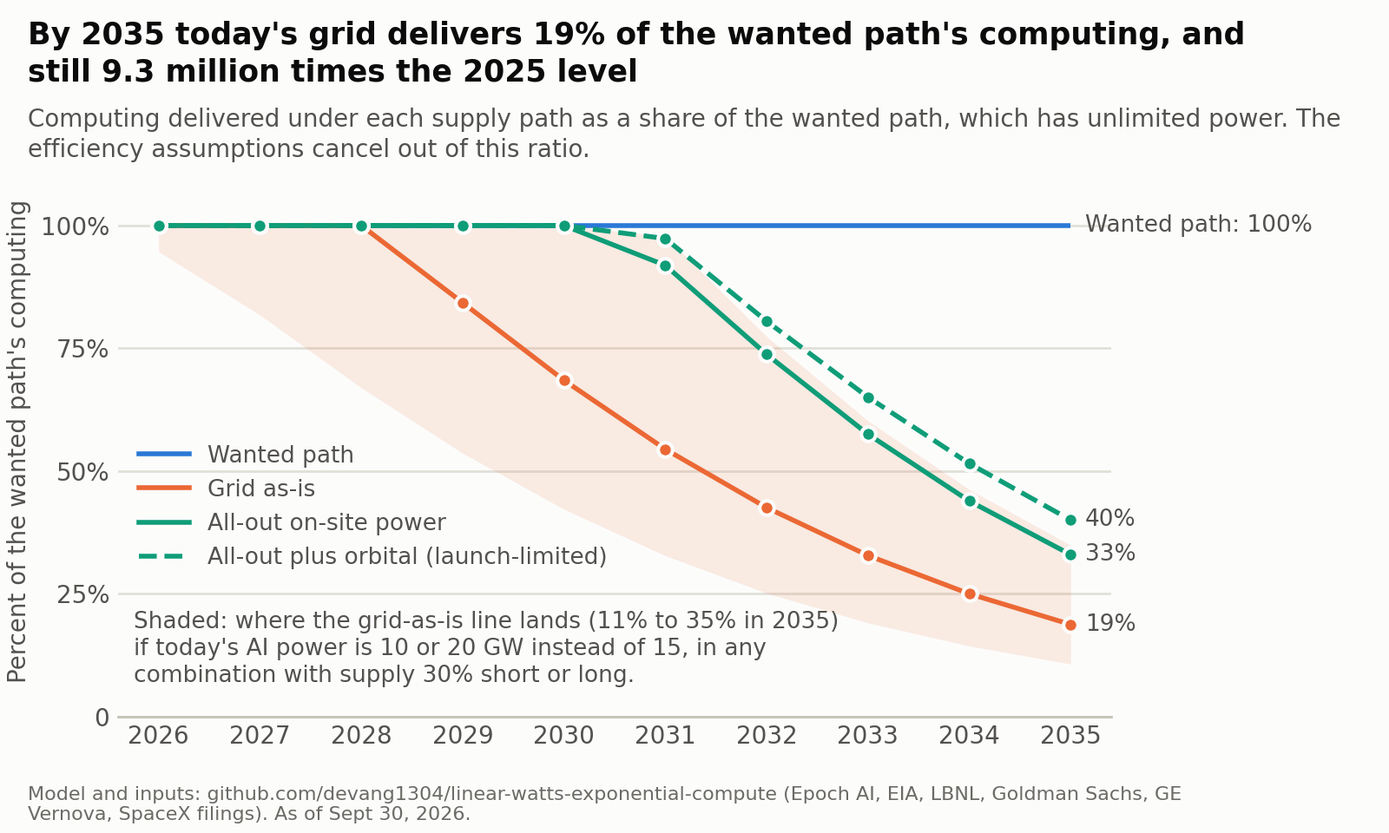
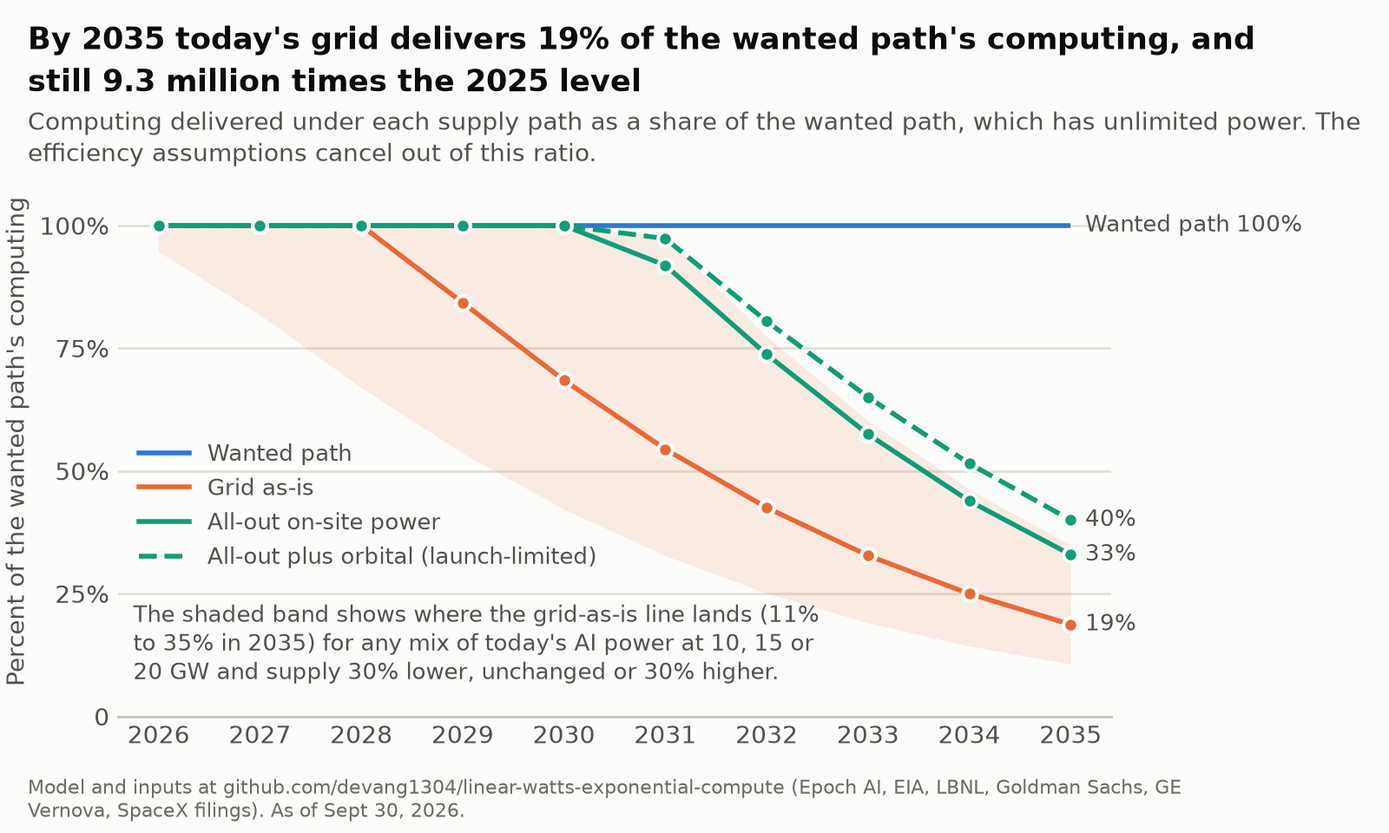
Pre-publication review (v1.1): house-style figures, source corrections, remove post.md

diff --git a/charts.py b/charts.py
@@ -37,7 +37,7 @@ ORANGE = "#eb6834"   # grid as-is
 GREEN = "#0f9d78"    # all-out on-site (solid) and all-out plus orbital (dashed); validated with the dataviz palette script
 FONT = {"family": "DejaVu Sans"}
 FIG_DIR = os.path.join(HERE, "figures")
-SOURCE_LINE = ("Model and inputs: github.com/devang1304/linear-watts-exponential-compute (Epoch AI, EIA, LBNL, Goldman Sachs, "
+SOURCE_LINE = ("Model and inputs at github.com/devang1304/linear-watts-exponential-compute (Epoch AI, EIA, LBNL, Goldman Sachs, "
                "GE Vernova, SpaceX filings). As of Sept 30, 2026.")
 T_TITLE, T_SUB, T_AX, T_NOTE, T_FOOT = 12.5, 10, 10, 9.5, 8
 
@@ -87,16 +87,16 @@ def fig0_identity(inp, supply):
     eff = inp["hw_eff_growth"] * inp["alg_eff_growth"]
     boxes = [
         ("Power connected", "gigawatts connectable to AI sites",
-         f"+{min(adds):.0f}–{max(adds):.0f} GW a year", "linear", BOX, INK),
+         f"+{min(adds):.0f} to {max(adds):.0f} GW", "a year, linear", BOX, INK),
         ("Hardware efficiency", "operations per watt",
-         f"× {inp['hw_eff_growth']:.1f} a year", "compounding", BOX, INK),
+         f"× {inp['hw_eff_growth']:.1f}", "a year, compounding", BOX, INK),
         ("Algorithmic efficiency", "capability per operation",
-         f"× {inp['alg_eff_growth']:.1f} a year", "compounding", BOX, INK),
+         f"× {inp['alg_eff_growth']:.1f}", "a year, compounding", BOX, INK),
         ("Computing delivered", "capability-adjusted",
-         "× 4.5 to 5.9 a year", "exponential", BLUE, "#ffffff"),
+         "× 4.5 to 5.9", "a year, exponential", BLUE, "#ffffff"),
     ]
     xs = [3, 27, 51, 77]
-    w, h, y0 = 21, 42, 22
+    w, h, y0 = 21, 42, 25
     for (head, desc, rate, kind, fill, ink), x in zip(boxes, xs):
         ax.add_patch(FancyBboxPatch((x, y0), w, h, boxstyle="round,pad=0,rounding_size=2.5",
                                     facecolor=fill, edgecolor="none"))
@@ -112,14 +112,14 @@ def fig0_identity(inp, supply):
     ax.plot([27.5, 71.5], [y0 - 4, y0 - 4], color=AXIS, linewidth=1)
     ax.plot([27.5, 27.5], [y0 - 4, y0 - 1.5], color=AXIS, linewidth=1)
     ax.plot([71.5, 71.5], [y0 - 4, y0 - 1.5], color=AXIS, linewidth=1)
-    ax.text(49.5, y0 - 9.5, f"together: × {eff:.1f} more computing per watt every year", ha="center", va="center",
+    ax.text(49.5, y0 - 9.5, f"together they give × {eff:.1f} more computing per watt every year", ha="center", va="center",
             fontsize=9.5, color=INK2)
     fig.text(0.02, 0.955, "Only one of the three terms depends on the grid", fontsize=T_TITLE, color=INK,
              fontweight="semibold", va="top")
-    fig.text(0.02, 0.86, textwrap.fill("Base-case rates, 2025–2035. Power additions are the grid-as-is path; the two "
+    fig.text(0.02, 0.86, textwrap.fill("Base-case rates, 2025 to 2035. Power additions are the grid-as-is path; the two "
              "efficiency terms have compounded for years.", 100), fontsize=T_SUB, color=INK2, va="top", linespacing=1.3)
-    fig.text(0.02, 0.04, "Efficiency rates: Epoch AI (operations per watt doubling every ~2 years; compute for fixed performance "
-             "halving every ~8 months).", fontsize=T_FOOT, color=MUTED, va="bottom")
+    fig.text(0.02, 0.03, textwrap.fill("Efficiency rates from Epoch AI (operations per watt doubling about every 2 years; compute "
+             "for fixed performance halving about every 8 months).", 118), fontsize=T_FOOT, color=MUTED, va="bottom")
     fig.savefig(os.path.join(FIG_DIR, "fig0_identity.png"), facecolor=SURFACE)
     plt.close(fig)
 
@@ -133,19 +133,19 @@ def fig1_power(rows):
     fig.subplots_adjust(left=0.085, right=0.80, top=0.80, bottom=0.14)
     style(ax, "Gigawatts (GW)")
     line(ax, xs, pick("supply_grid_gw"), ORANGE, "Grid as-is")
-    line(ax, xs, pick("supply_terrestrial_gw"), GREEN, "All-out: grid plus on-site generation")
+    line(ax, xs, pick("supply_terrestrial_gw"), GREEN, "All-out (grid plus on-site generation)")
     line(ax, xs, pick("supply_terrestrial_plus_space_gw"), GREEN, "All-out plus orbital (launch-limited)", dashed=True)
-    line(ax, xs, pick("demand_gw"), BLUE, "Wanted: 1.5x a year", z=5)
+    line(ax, xs, pick("demand_gw"), BLUE, "Wanted path (1.5x a year)", z=5)
     for k, lab, dy in (("demand_gw", "Wanted", 0), ("supply_terrestrial_plus_space_gw", "All-out + orbital", 7),
                        ("supply_terrestrial_gw", "All-out", -7), ("supply_grid_gw", "Grid as-is", 0)):
         y = pick(k)[-1]
-        end_label(ax, xs[-1], y, f"{lab}: {y:,.0f}", dy)
-    for key, lab, ypos, ha, dx in (("supply_grid_gw", "grid as-is", 5, "left", 0.08),
-                                   ("supply_terrestrial_gw", "all-out", 42, "left", 0.08)):
+        end_label(ax, xs[-1], y, f"{lab} {y:,.0f} GW", dy)
+    for key, lab, ypos, ha, dx in (("supply_grid_gw", "on today's grid", 5, "left", 0.08),
+                                   ("supply_terrestrial_gw", "with all-out power", 42, "left", 0.08)):
         for r in rows:
             if r["demand_gw"] > r[key]:
                 ax.axvline(r["year"], color=AXIS, linewidth=1, zorder=1)
-                ax.text(r["year"] + dx, ypos, f"{r['year']}: wanted {r['demand_gw']:.0f},\n{lab} {r[key]:.0f} GW",
+                ax.text(r["year"] + dx, ypos, f"In {r['year']}, {r['demand_gw']:.0f} GW wanted and\n{r[key]:.0f} GW available {lab}",
                         fontsize=T_NOTE, color=INK2, va="bottom", ha=ha, linespacing=1.25)
                 break
     ax.set_xticks(xs)
@@ -154,7 +154,7 @@ def fig1_power(rows):
     ax.set_yticks([0, 100, 200, 300])
     ax.legend(loc="upper left", frameon=False, fontsize=T_NOTE, labelcolor=INK2, handlelength=2.2)
     title(fig, "Power runs short in 2029 on today's grid, and in 2031 even with generators on site",
-          "Gigawatts of US AI data-center power, 2025–2032. One gigawatt is roughly the draw of 750,000 US homes.")
+          "Gigawatts of US AI data-center power, 2025 to 2032. One gigawatt is roughly the draw of 750,000 US homes.")
     fig.savefig(os.path.join(FIG_DIR, "fig1_power.png"), facecolor=SURFACE)
     plt.close(fig)
 
@@ -197,10 +197,10 @@ def fig2_compute(rows, inp, supply):
     end_label(ax, xs[-1], growth["compute_grid"][-1], f"{growth['compute_grid'][-1]:.1f}x (both)", -2)
     if bind is not None:
         ax.vlines(bind, 0, 6.3, color=AXIS, linewidth=1, zorder=1)
-        ax.text(bind + 0.08, 0.35, f"{bind}: today's grid binds", fontsize=T_NOTE, color=INK2, va="bottom")
+        ax.text(bind + 0.08, 0.35, f"Today's grid binds in {bind}", fontsize=T_NOTE, color=INK2, va="bottom")
     if bind is not None and bind < xs[-1]:
         avg_post = (rows[-1]["compute_grid"] / rows[xs.index(bind) + 1]["compute_grid"]) ** (1 / (xs[-1] - bind))
-        ax.text(bind + 0.12, 3.8, f"average {avg_post:.1f}x a year once the grid binds ({bind}\u2013{xs[-1]})",
+        ax.text(bind + 0.12, 3.8, f"average {avg_post:.1f}x a year once the grid binds, {bind} to {xs[-1]}",
                 fontsize=T_NOTE, color=ORANGE, va="top", ha="left")
     ax.text(x0 + 0.15, 1.12, "1x would mean no growth", fontsize=T_NOTE, color=MUTED, va="bottom")
     # efficiency range as a whisker at the left edge, label beside it
@@ -208,8 +208,8 @@ def fig2_compute(rows, inp, supply):
     ax.plot([wx, wx], [eff_lo, eff_hi], color=MUTED, linewidth=1.2, clip_on=False)
     for yv in (eff_lo, eff_hi):
         ax.plot([wx - 0.07, wx + 0.07], [yv, yv], color=MUTED, linewidth=1.2, clip_on=False)
-    ax.text(wx + 0.2, 7.97, textwrap.fill(f"{eff_lo:.1f}x to {eff_hi:.1f}x: where the wanted line would sit if "
-            f"efficiency gains ran at the low or high end of the ranges swept; every line scales by the same factor", 31),
+    ax.text(wx + 0.2, 7.97, textwrap.fill(f"At the low or high end of the efficiency ranges, the wanted line sits at "
+            f"{eff_lo:.1f}x to {eff_hi:.1f}x, and every line scales with it", 31),
             fontsize=9, color=MUTED, va="top", ha="left", linespacing=1.25)
     ax.set_xticks(xs)
     ax.set_xlim(x0, x1)
@@ -217,7 +217,7 @@ def fig2_compute(rows, inp, supply):
     ax.set_yticks([0, 1, 2, 4, 6, 8])
     ax.set_yticklabels(["0", "1x", "2x", "4x", "6x", "8x"])
     ax.legend(loc="lower right", bbox_to_anchor=(1.0, 0.09), frameon=False, fontsize=T_NOTE, labelcolor=INK2, handlelength=2.2)
-    title(fig, "Once the grid binds, computing still grows about 4.5x a year instead of 5.9x",
+    title(fig, "Once the grid binds, computing still grows about 4.5x a year, compared with 5.9x on the wanted path",
           f"Each year's capability-adjusted computing as a multiple of the year before. Hardware efficiency "
           f"{inp['hw_eff_growth']:.1f}x and algorithmic efficiency {inp['alg_eff_growth']:.1f}x a year in every path; only the power term differs.")
     fig.savefig(os.path.join(FIG_DIR, "fig2a_growth.png"), facecolor=SURFACE)
@@ -236,13 +236,13 @@ def fig2_compute(rows, inp, supply):
     style(ax, "Percent of the wanted path's computing")
     ax.fill_between(xs, env_lo, env_hi, color=ORANGE, alpha=0.12, linewidth=0, zorder=1)
     ax.hlines(100, xs[0], xs[-1], color=BLUE, linewidth=2, zorder=2)
-    end_label(ax, xs[-1], 100, "Wanted path: 100%", 0)
+    end_label(ax, xs[-1], 100, "Wanted path 100%", 0)
     for k, c, d, lab in paths[1:]:
         line(ax, xs, share[k], c, lab, dashed=d)
         end_label(ax, xs[-1], share[k][-1], f"{share[k][-1]:.0f}%", 0)
     ax.text(x0 + 0.15, 6, textwrap.fill(
-        f"Shaded: where the grid-as-is line lands ({env_lo[-1]:.0f}% to {env_hi[-1]:.0f}% in 2035) if today's AI "
-        f"power is 10 or 20 GW instead of 15, in any combination with supply 30% short or long.", 60),
+        f"The shaded band shows where the grid-as-is line lands ({env_lo[-1]:.0f}% to {env_hi[-1]:.0f}% in 2035) "
+        f"for any mix of today's AI power at 10, 15 or 20 GW and supply 30% lower, unchanged or 30% higher.", 60),
         fontsize=T_NOTE, color=INK2, va="bottom", linespacing=1.25, zorder=5)
     ax.set_xticks(xs)
     ax.set_xlim(x0, x1)
@@ -310,7 +310,7 @@ def fig3_campus(inp):
     ax.set_xticklabels([f"{y}\n{plans[y][1]}" for y in years], linespacing=1.3)
     ax.set_yticks([0, 2, 4, 6])
     ax.legend(handles=[Line2D([0], [0], color=BLUE, lw=8, label="Largest campus planned for the year (Epoch AI tracker)"),
-                       Line2D([0], [0], color=MUTED, lw=8, label="Epoch's trend: doubling every 10 months from 0.95 GW in June 2026")],
+                       Line2D([0], [0], color=MUTED, lw=8, label="Epoch's trend, doubling every 10 months from 0.95 GW in June 2026")],
               loc="upper left", frameon=False, fontsize=T_NOTE, labelcolor=INK2)
     title(fig, "The biggest AI campus planned for 2028 is 2.3 gigawatts; the trend says about 5",
           "Largest single-site AI campus by IT power (what the chips draw, before cooling), mid-year, against the doubling "

diff --git a/tables.py b/tables.py
@@ -90,28 +90,28 @@ def main():
         "campus_trend_doubling_months": ("Doubling time of the largest campus", "months"),
     }
     sources = {
-        "p0_us_ai_power_gw": "Epoch AI: global AI ~30 GW in Q4 2025; US taken as half (assumption)",
-        "demand_growth": "Epoch AI (Jul 2026): US AI power 'could reach 100 GW' by 2030; Goldman: 31 -> 66 GW, 2025-27",
-        "hw_eff_growth": "Epoch AI: FLOP/W of leading GPUs/TPUs doubles about every 2 years",
-        "alg_eff_growth": "Epoch AI: compute for fixed performance halves every ~8 months (95% CI 5-14)",
-        "space_kw_per_tonne": "SpaceX filing implies 100 kW/t, its satellite ~70; Google's reference satellite ~49. Vendor end used",
-        "space_tonnes_per_launch": "SpaceX prospectus: Starship V3 designed for 100 t, fully reusable (design goal)",
-        "space_sat_life_years": "Google Suncatcher paper: 5-year reference life, repair 'impracticable'",
+        "p0_us_ai_power_gw": "Epoch AI puts global AI at about 30 GW in Q4 2025; US taken as half (assumption)",
+        "demand_growth": "Epoch AI (Jul 2026) says US AI power 'could reach 100 GW' by 2030; Goldman has 31 to 66 GW over 2025 to 2027",
+        "hw_eff_growth": "Epoch AI finds FLOP/W of leading GPUs and TPUs doubles about every 2 years",
+        "alg_eff_growth": "Epoch AI finds compute for fixed performance halves about every 8 months (95% CI 5 to 14)",
+        "space_kw_per_tonne": "SpaceX's filing implies 100 kW/t and its satellite about 70; Google's reference satellite about 49. Vendor end used",
+        "space_tonnes_per_launch": "SpaceX filing says Starship V3 is designed for 100 t, fully reusable (a design goal)",
+        "space_sat_life_years": "Google's Suncatcher paper uses a 5-year reference life and calls repair 'impracticable'",
         "dc_utilization": "Assumption",
         "us_electricity_twh_2026": "EIA Short-Term Energy Outlook, Sept 2026",
         "us_electricity_growth": "Assumption (EIA shows +1.8% for 2027)",
-        "campus_trend_base_gw": "Epoch AI: Colossus 2 at ~950 MW of IT power, June 2026",
-        "campus_trend_doubling_months": "Epoch AI: the record campus has doubled every ten months since mid-2024",
+        "campus_trend_base_gw": "Epoch AI puts Colossus 2 at about 950 MW of IT power, June 2026",
+        "campus_trend_doubling_months": "Epoch AI finds the record campus has doubled every ten months since mid-2024",
     }
     trows = []
     with open(os.path.join(HERE, "inputs.csv"), newline="") as f:
         for r in csv.DictReader(f):
             # a row without an entry above is shown with its own name, unit and note
             lab, unit = labels.get(r["name"], (r["name"], r["unit"]))
-            rng = f"{r['low']}-{r['high']}" if r["low"] and r["high"] else "not swept"
+            rng = f"{r['low']} to {r['high']}" if r["low"] and r["high"] else "fixed"
             trows.append([lab, f"{float(r['value']):g} {unit}", rng, sources.get(r["name"], r["note"])])
     render_table("t1_inputs.png", "Table 2. Inputs; the range column is what the sensitivity analysis sweeps",
-                 ["Input", "Value", "Range", "Source"], trows, [0.28, 0.16, 0.10, 0.46],
+                 ["Input", "Value", "Range", "Source"], trows, [0.26, 0.16, 0.12, 0.46],
                  note="Full rows with URLs and dates in inputs.csv in the repository.")
 
     # Supplementary / t2: supply paths
@@ -120,7 +120,7 @@ def main():
         s = supply[y]
         srows.append([str(y), f"+{s['grid_as_is_gw']:.0f}", f"+{s['all_out_terrestrial_gw']:.0f}",
                       f"{s['space_ai_launches']:.0f}", f"{by_year[y]['space_capacity_gw']:.1f}"])
-    render_table("t2_supply_paths.png", "Supplementary table. The three supply paths: GW newly connectable to AI sites each year",
+    render_table("t2_supply_paths.png", "Supplementary table. The three supply paths, in GW newly connectable to AI sites each year",
                  ["Year", "Grid as-is (GW/yr)", "All-out on-site (GW/yr)", "AI Starship launches", "Orbital capacity in service (GW)"],
                  srows, [0.10, 0.20, 0.25, 0.20, 0.25],
                  note="Orbital capacity = launches x 100 t x 80 kW/t (the vendor's mass budget), retired after 5 years.")
@@ -150,7 +150,7 @@ def main():
             camp.append([str(y), f"{float(r['pipeline_gw']):.2g} GW", r["site"], f"{trend:.1f} GW", f"{trend/float(r['pipeline_gw']):.1f}x"])
     render_table("t4_campus_gap.png", "Supplementary table. Largest planned single-site campus versus Epoch's ten-month-doubling trend (IT power, mid-year)",
                  ["Year", "Planned", "Site", "Trend", "Gap"], camp, [0.09, 0.13, 0.42, 0.14, 0.12],
-                 note="Trend anchored on Colossus 2 at 0.95 GW in June 2026. Epoch's own projection for the largest campus in 2030 is 4-16 GW.")
+                 note="Trend anchored on Colossus 2 at 0.95 GW in June 2026. Epoch's 2030 range for a single campus is 1 to 5 GW; its 4 to 16 GW is for the largest training run, which may span sites.")
 
     # Table 3 (post) / t5: sensitivity, condensed
     sens = {}
@@ -175,15 +175,15 @@ def main():
         *swept("demand_growth", lambda v: f"Demand growth {v:.1f}x a year"),
         row("Supply 30% lower", "Terrestrial supply 70"),
         row("Supply 30% higher", "Terrestrial supply 130"),
-        ["Both efficiency rates at the low or high end (hardware 1.3-1.5x, algorithms 2.0-3.5x): only the growth rate moves",
+        ["Both efficiency rates at the low or high end (hardware 1.3 to 1.5x, algorithms 2.0 to 3.5x)",
          "2029", "68%", "19%", "3.3x to 6.7x", "18%"],
         row(f"Pessimistic combination ({p_hi:g} GW, {d_hi:.1f}x demand, 70% supply, {a_lo:.1f}x algorithms)", "Pessimistic"),
         row(f"Optimistic combination ({p_lo:g} GW, {d_lo:.1f}x demand, 130% supply, {a_hi:.1f}x algorithms)", "Optimistic"),
     ]
     render_table("t5_sensitivity.png", "Table 3. Only starting power, demand growth and supply move the year the grid binds",
-                 ["Case", "Today's grid binds", "Computing delivered vs the wanted path, 2030", "Same, 2035", "Grid-as-is growth per year, 2025-35 average", "Share of US electricity the wanted path needs, 2030"],
+                 ["Case", "Today's grid binds", "Computing delivered vs the wanted path, 2030", "Same, 2035", "Grid-as-is growth per year, 2025 to 2035 average", "Share of US electricity the wanted path needs, 2030"],
                  srows, [0.30, 0.11, 0.15, 0.10, 0.14, 0.14],
-                 note="The efficiency rates scale both paths equally, so by construction they change the growth rate and not the binding year or the share delivered.")
+                 note="The efficiency rates scale both paths equally, so by construction they change only the growth rate and leave the binding year and the share delivered unchanged.")
 
     # Table 1 (post) / t6: launch math, on two mass budgets
     kw_t_lo, kw_t_hi = inp["space_kw_per_tonne"], 1000 / 20.5   # SpaceX's 12.5 kg/kW vs Google's 20.5 kg/kW
@@ -192,24 +192,24 @@ def main():
     def l_per_gw(kwt): return t_per_gw(kwt) / t_l
     launch = [
         ["1 GW of orbital compute", f"{t_per_gw(kw_t_lo):,.0f} to {t_per_gw(kw_t_hi):,.0f} t", f"{l_per_gw(kw_t_lo):,.0f} to {l_per_gw(kw_t_hi):,.0f}",
-         "Starship has flown 3 times in 2026; Falcon 9 ~170 times in 2025"],
-        ["SpaceX plant target: 1 GW a year from end-2027", f"{t_per_gw(kw_t_lo):,.0f} to {t_per_gw(kw_t_hi):,.0f} t/yr", f"{l_per_gw(kw_t_lo):,.0f} to {l_per_gw(kw_t_hi):,.0f} a year",
+         "Starship flew three times in 2026 to Sept 30; Falcon 9 flew 165 times in 2025"],
+        ["SpaceX plant target of 1 GW a year from end-2027", f"{t_per_gw(kw_t_lo):,.0f} to {t_per_gw(kw_t_hi):,.0f} t/yr", f"{l_per_gw(kw_t_lo):,.0f} to {l_per_gw(kw_t_hi):,.0f} a year",
          "A Starship for AI every two to three days"],
-        ["SpaceX prospectus: 100 GW a year", f"{100*t_per_gw(kw_t_lo)/1e6:.3g} to {100*t_per_gw(kw_t_hi)/1e6:.3g} million t/yr",
+        ["SpaceX filing goal of 100 GW a year", f"{100*t_per_gw(kw_t_lo)/1e6:.3g} to {100*t_per_gw(kw_t_hi)/1e6:.3g} million t/yr",
          f"{100*l_per_gw(kw_t_lo):,.0f} to {100*l_per_gw(kw_t_hi):,.0f} a year",
          f"{100*l_per_gw(kw_t_lo)/365:.0f} to {100*l_per_gw(kw_t_hi)/365:.0f} launches a day; each year's 100 GW is about a fifth of today's US average load"],
     ]
     render_table("t6_launch_math.png", "Table 1. One gigawatt in orbit takes 125 to 205 Starship launches",
                  ["Target", "Mass to orbit", f"Starship launches ({t_l:.0f} t each)", "Context"], launch, [0.27, 0.24, 0.17, 0.32],
-                 note="Mass budgets: 12.5 kg per kW (between SpaceX's filing, which implies 10, and its satellite design, about 14) to 20.5 kg per kW (Google's reference satellite: 575 kg, 28 kW). Starship's 100 t payload is a design goal.")
+                 note="Mass budgets run from 12.5 kg per kW (between SpaceX's filing, which implies 10, and its satellite design, about 14) to 20.5 kg per kW (Google's reference satellite, 575 kg for 28 kW). Starship's 100 t payload is a design goal.")
 
     # Supplementary / t7: cost math (launch cost only, Google's basis)
     cost = [
-        ["~$3,250/kg (Falcon 9 list price today)", "~$13,000", "4 to 23 times the bill"],
-        ["$1,000/kg", "~$4,050", "1.3 to 7 times the bill"],
+        ["About $3,250/kg (Falcon 9 list price today)", "About $13,000", "4 to 23 times the bill"],
+        ["$1,000/kg", "About $4,050", "1.3 to 7 times the bill"],
         ["$200/kg (Google's mid-2030s threshold)", "$810", "Within the range"],
     ]
-    render_table("t7_cost_math.png", "Supplementary table. Launch cost alone per kilowatt-year in orbit, against a $570-3,000 electricity bill on the ground",
+    render_table("t7_cost_math.png", "Supplementary table. Launch cost alone per kilowatt-year in orbit, against a $570 to $3,000 electricity bill on the ground",
                  ["Launch price per kilogram", "Launch cost per kW-year", "Versus a terrestrial data center's electricity bill"], cost, [0.34, 0.26, 0.40],
                  note="Google's $810 at $200/kg for its reference satellite (20.5 kg per kW, five-year life), scaled linearly with launch price. Excludes the satellite itself.")
 

diff --git a/README.md b/README.md
@@ -1,6 +1,6 @@
 # Linear watts, exponential compute
 
-A bounding model of US AI compute under electricity constraints, 2025–2035, and the code behind the post of the same name.
+A bounding model of US AI compute under electricity constraints, 2025 to 2035, and the code behind the Medium post "Will AI run out of electricity?".
 
 The whole model is one identity, run year by year:
 
@@ -8,7 +8,7 @@ The whole model is one identity, run year by year:
 compute(t) = power(t) × hardware_efficiency^(t−2025) × algorithmic_efficiency^(t−2025)
 ```
 
-where `power(t)` is the lesser of what the industry wants to build (a demand path) and what can be connected (a supply path). The result: with power growing linearly instead of 1.5x a year, compute still grows about 4.5x a year once the grid binds, against 5.9x on the wanted path; the largest single-site campus planned for 2028 is 2.3x under Epoch's trend; and orbital compute cannot add meaningful gigawatts before 2031 even on the vendor's mass budget.
+where `power(t)` is the lesser of what the industry wants to build (a demand path) and what can be connected (a supply path). The result is that with power growing in a straight line of 12 to 18 GW a year while the industry wants 1.5x a year, compute still grows about 4.5x a year once the grid binds, against 5.9x on the wanted path; the largest single-site campus planned for 2028 is 2.3 GW against a 5.2 GW trend; and orbital compute adds under 5 GW before 2031 even on the vendor's mass budget.
 
 **As of September 30, 2026.**
 
@@ -31,14 +31,14 @@ Every parameter lives in one of three CSVs, each row with its source URL and dat
 | File | What it holds |
 | --- | --- |
 | `inputs.csv` | Starting power, demand growth, the two efficiency terms, the space parameters, the share-of-electricity inputs, the single-site trend anchor. Columns: `name, value, low, high, unit, source_url, source_date, note`. |
-| `supply_paths.csv` | Per-year GW newly connectable under the grid-as-is and all-out terrestrial paths, and AI-dedicated Starship launches per year. |
+| `supply_paths.csv` | Per-year GW newly connectable under the grid-as-is and all-out on-site paths (columns `grid_as_is_gw` and `all_out_terrestrial_gw`), and AI-dedicated Starship launches per year. |
 | `campus.csv` | The largest planned single-site campus by year (2026-2030), with the site and source. The trend it is compared with is Epoch's ten-month doubling from the June 2026 record (parameters in `inputs.csv`). |
 
-The `low`/`high` columns are the ranges `sensitivity.py` sweeps, one input at a time, alongside terrestrial supply ±30% and two combinations. `results/sensitivity.csv` holds every case; Table 3 in the post shows a subset.
+The `low`/`high` columns are the ranges `sensitivity.py` sweeps, one input at a time, alongside ground supply 30% lower or higher and two combinations. `results/sensitivity.csv` holds every case; Table 3 in the post shows a subset.
 
 After editing a value, rerun all four scripts. The results and the plotted lines follow; titles, notes and a few table cells in `charts.py` and `tables.py` are written for the base case and have to be updated by hand.
 
-`post.md` is the post. `CHANGELOG.md` lists the corrections made before publication.
+`CHANGELOG.md` lists the corrections made before publication.
 
 ## License
 

diff --git a/CHANGELOG.md b/CHANGELOG.md
@@ -1,6 +1,31 @@
 # Changelog
 
-## 2026-09-30 — v1.0, first publication
+## 2026-10-01, v1.1, pre-publication review
+
+Corrections from a second review of the full draft (numbers, sources, editorial and adversarial passes, graded against a written rubric). The post text lives in the Medium draft; the corrections below were applied there.
+
+Post:
+
+- Single site: "Epoch's own projection for the largest campus is 4 to 16 gigawatts" removed. That range is Epoch's figure for the largest training run, which may span sites; Epoch's single-campus range for 2030 is 1 to 5 GW, now stated. The multi-site sentence now carries Epoch's conclusion that distributed training is feasible with bandwidth a smaller constraint than power, with optics kept as the cost.
+- Headline growth rate now carries its range (about 3 to 6x once the grid binds at the ends of the efficiency ranges), and the 9.3 million figure is labelled as what the efficiency assumptions imply.
+- Fleet-replacement caveat corrected from 55 to 65% to 50 to 65% (four- to six-year cycles at 1.4x a year give 65%, 57% and 51%).
+- "AI's power grows only 12 to 20% a year by 2032" corrected to 17 to 20% in 2032 and about 12% by 2035.
+- PJM's service population corrected from 65 to 67 million (PJM's July 14, 2026 release). "50% a year" corrected to "1.5 times a year". "About 150 lines of Python" corrected to about 170.
+- The hardware-efficiency sentence no longer infers that 1.4x is the careful choice from a rack-throughput figure that also carries higher rack power.
+- Buyer guidance now distinguishes Epoch's 13x a year all-benchmark price decline from about 5x a year for capability two years old, matching the price prediction; the price-index falsifier softened from "rises for two quarters" to "stops falling for a year".
+- Orbital path: the model's crediting of orbital chips with ground efficiency is stated.
+- Starship flight count and ship reuse tied to September 30, 2026; years added to the November 2025, March 2026 and February 2026 quotes.
+- Table 1 image replaced (Falcon 9 flew 165 times in 2025, not about 170; "filing" for "prospectus"); Figure 3 image replaced ("full build" for "end-state").
+
+Repository:
+
+- charts.py and tables.py: en dashes and colons removed from all figure and table text, annotations reworded in plain sentences, fig2a title changed from "instead of 5.9x" to "compared with 5.9x on the wanted path", fig0 and fig1 labels reworded, table source notes rewritten as sentences, ranges written "a to b", "not swept" changed to "fixed".
+- tables.py: Falcon 9 2025 launches 165; "prospectus" changed to "filing"; the campus table note now gives Epoch's 1 to 5 GW single-campus range and attributes the 4 to 16 GW to the largest training run.
+- campus.csv: site label "xAI Colossus 2 end-state" changed to "xAI Colossus 2 full build"; the Hyperion note corrected as above.
+- README: title of the Medium post added; en dash removed; result sentence and supply-path names reworded.
+- All figures re-rendered.
+
+## 2026-09-30, v1.0, first draft
 
 Model, inputs and figures as of September 30, 2026.
 
